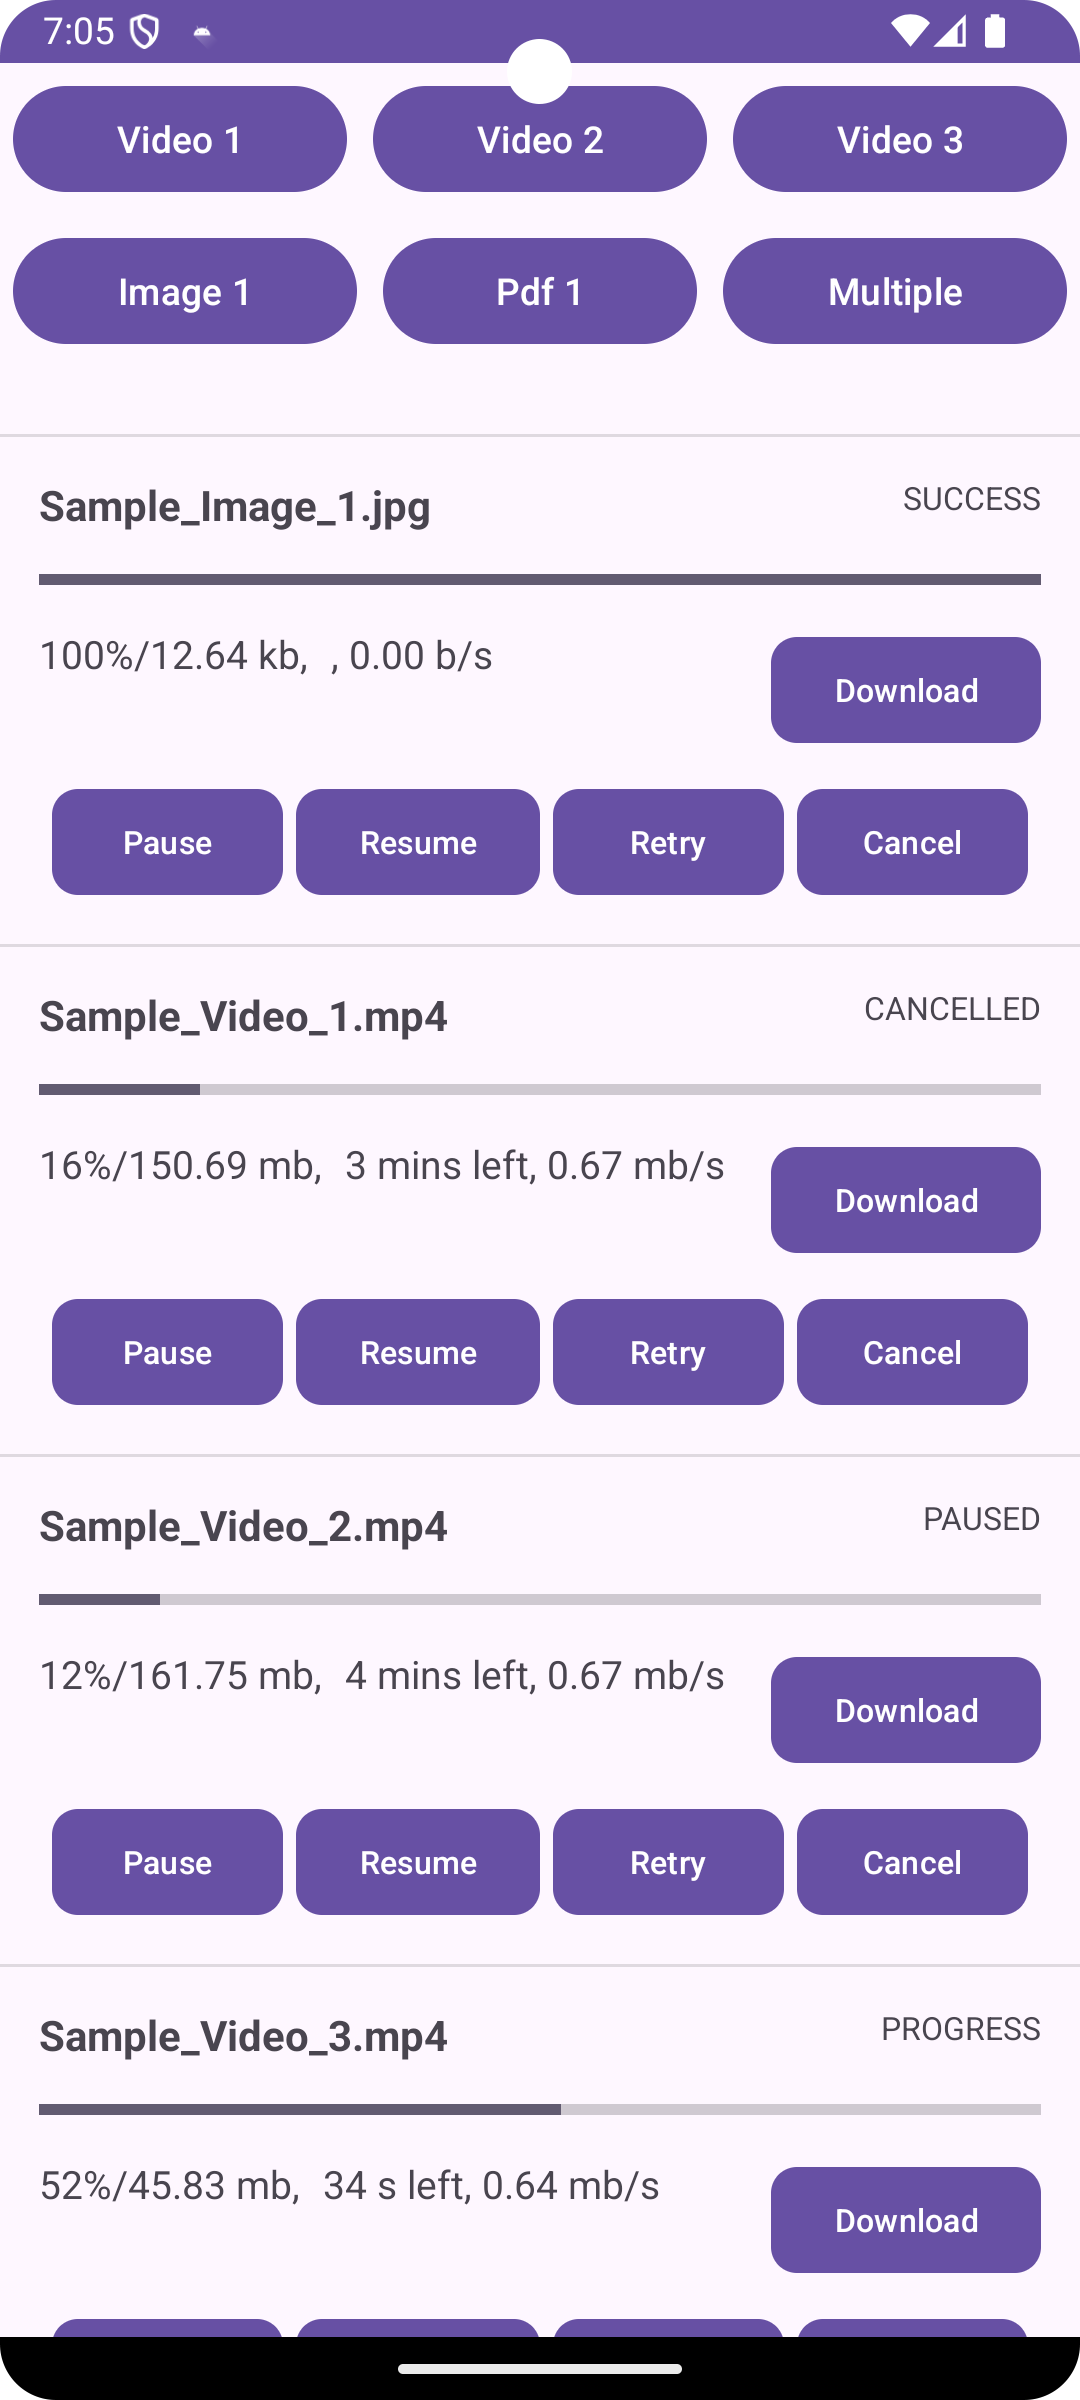
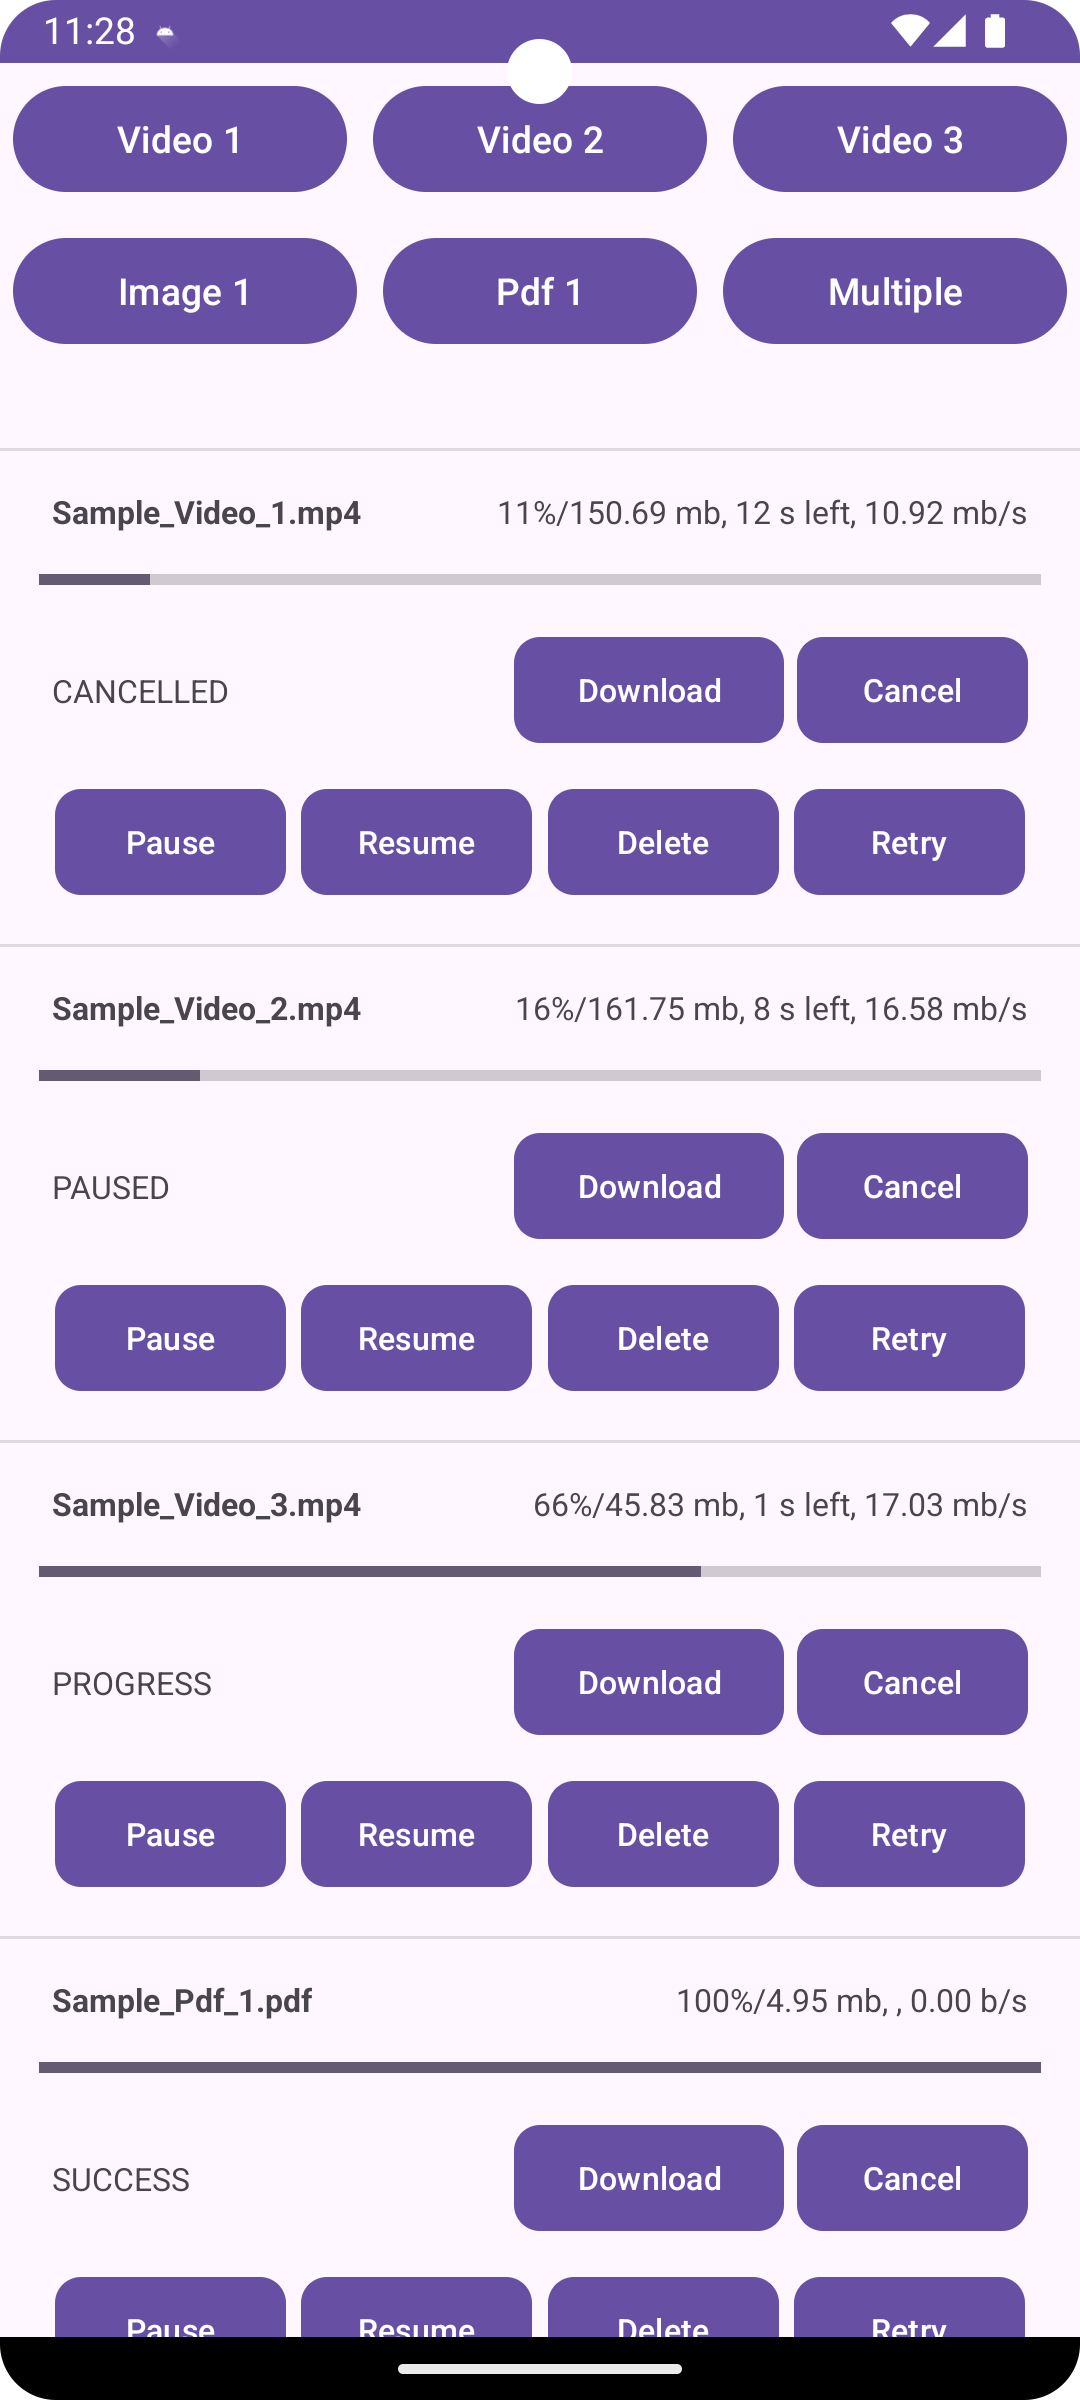
Update sample

diff --git a/app/src/main/java/com/khush/sample/MainFragment.kt b/app/src/main/java/com/khush/sample/MainFragment.kt
@@ -115,6 +115,10 @@ class MainFragment : Fragment() {
             override fun onRetryClick(downloadItem: DownloadModel) {
                 ketch.retry(downloadItem.id)
             }
+
+            override fun onDeleteClick(downloadItem: DownloadModel) {
+                ketch.clearDb(downloadItem.id)
+            }
         })
         fragmentMainBinding.recyclerView.adapter = adapter
         (fragmentMainBinding.recyclerView.itemAnimator as? SimpleItemAnimator)?.supportsChangeAnimations =
@@ -285,6 +289,9 @@ class FilesAdapter(private val listener: FileClickListener) :
             binding.resumeButton.setOnClickListener {
                 listener.onResumeClick(downloadModel)
             }
+            binding.deleteButton.setOnClickListener {
+                listener.onDeleteClick(downloadModel)
+            }
             binding.retryButton.setOnClickListener {
                 listener.onRetryClick(downloadModel)
             }
@@ -312,6 +319,7 @@ class FilesAdapter(private val listener: FileClickListener) :
         fun onPauseClick(downloadItem: DownloadModel)
         fun onResumeClick(downloadItem: DownloadModel)
         fun onRetryClick(downloadItem: DownloadModel)
+        fun onDeleteClick(downloadItem: DownloadModel)
     }
 
 }
